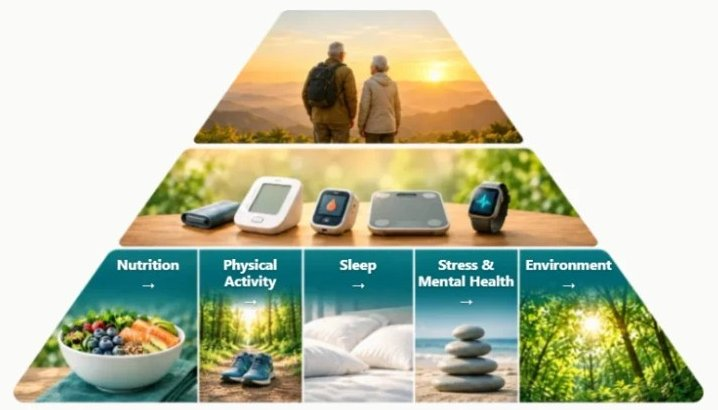
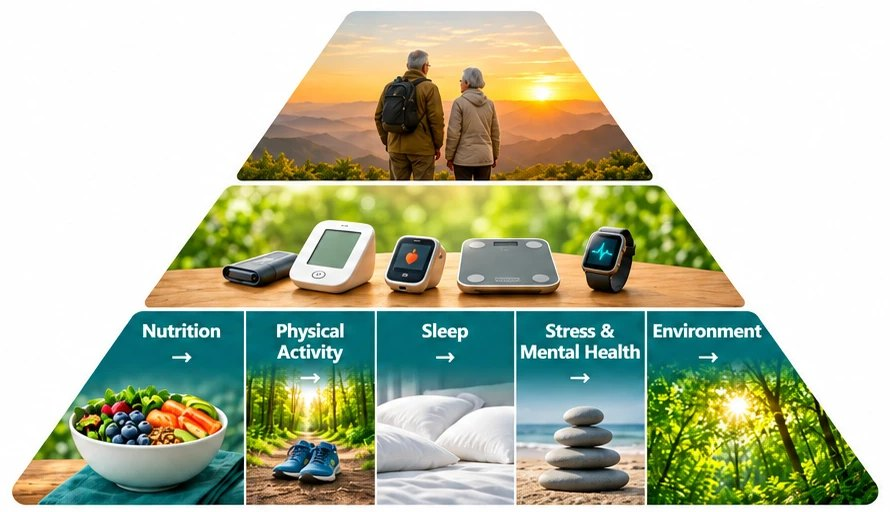
Use sharper toClarity foundations graphic
Higher-resolution crop (890x512) and matching frame background.

Claude-Session: https://claude.ai/code/session_011jgB7Qi1AREcQKr1SiFjui

diff --git a/index.html b/index.html
@@ -309,7 +309,7 @@
 
         .product-figure {
             margin: 2px 0;
-            background: #f9f8f6;
+            background: #fefefe;
             border: 1px solid var(--color-border);
             border-radius: 10px;
             padding: 10px;
@@ -453,7 +453,7 @@
                         </div>
                         <p data-i18n="tcDesc">Zamienia wiele godzin rozmów ekspertów w jasne, uporządkowane odpowiedzi. Pokazuje, w czym eksperci się zgadzają, gdzie się różnią i co dopiero się wyłania.</p>
                         <figure class="product-figure">
-                            <img src="toclarity-foundations.jpg" width="718" height="410" loading="lazy" alt="Piramida toClarity: u góry długie i zdrowe życie, pośrodku monitorowanie sygnałów zdrowia, u podstawy pięć fundamentów: odżywianie, aktywność fizyczna, sen, stres i zdrowie psychiczne, środowisko" data-i18n-alt="tcFigAlt">
+                            <img src="toclarity-foundations.jpg" width="890" height="512" loading="lazy" alt="Piramida toClarity: u góry długie i zdrowe życie, pośrodku monitorowanie sygnałów zdrowia, u podstawy pięć fundamentów: odżywianie, aktywność fizyczna, sen, stres i zdrowie psychiczne, środowisko" data-i18n-alt="tcFigAlt">
                             <figcaption data-i18n="tcFigCap">Pięć fundamentów zdrowia, które regularnie wracają w rozmowach ekspertów</figcaption>
                         </figure>
                         <ul>
